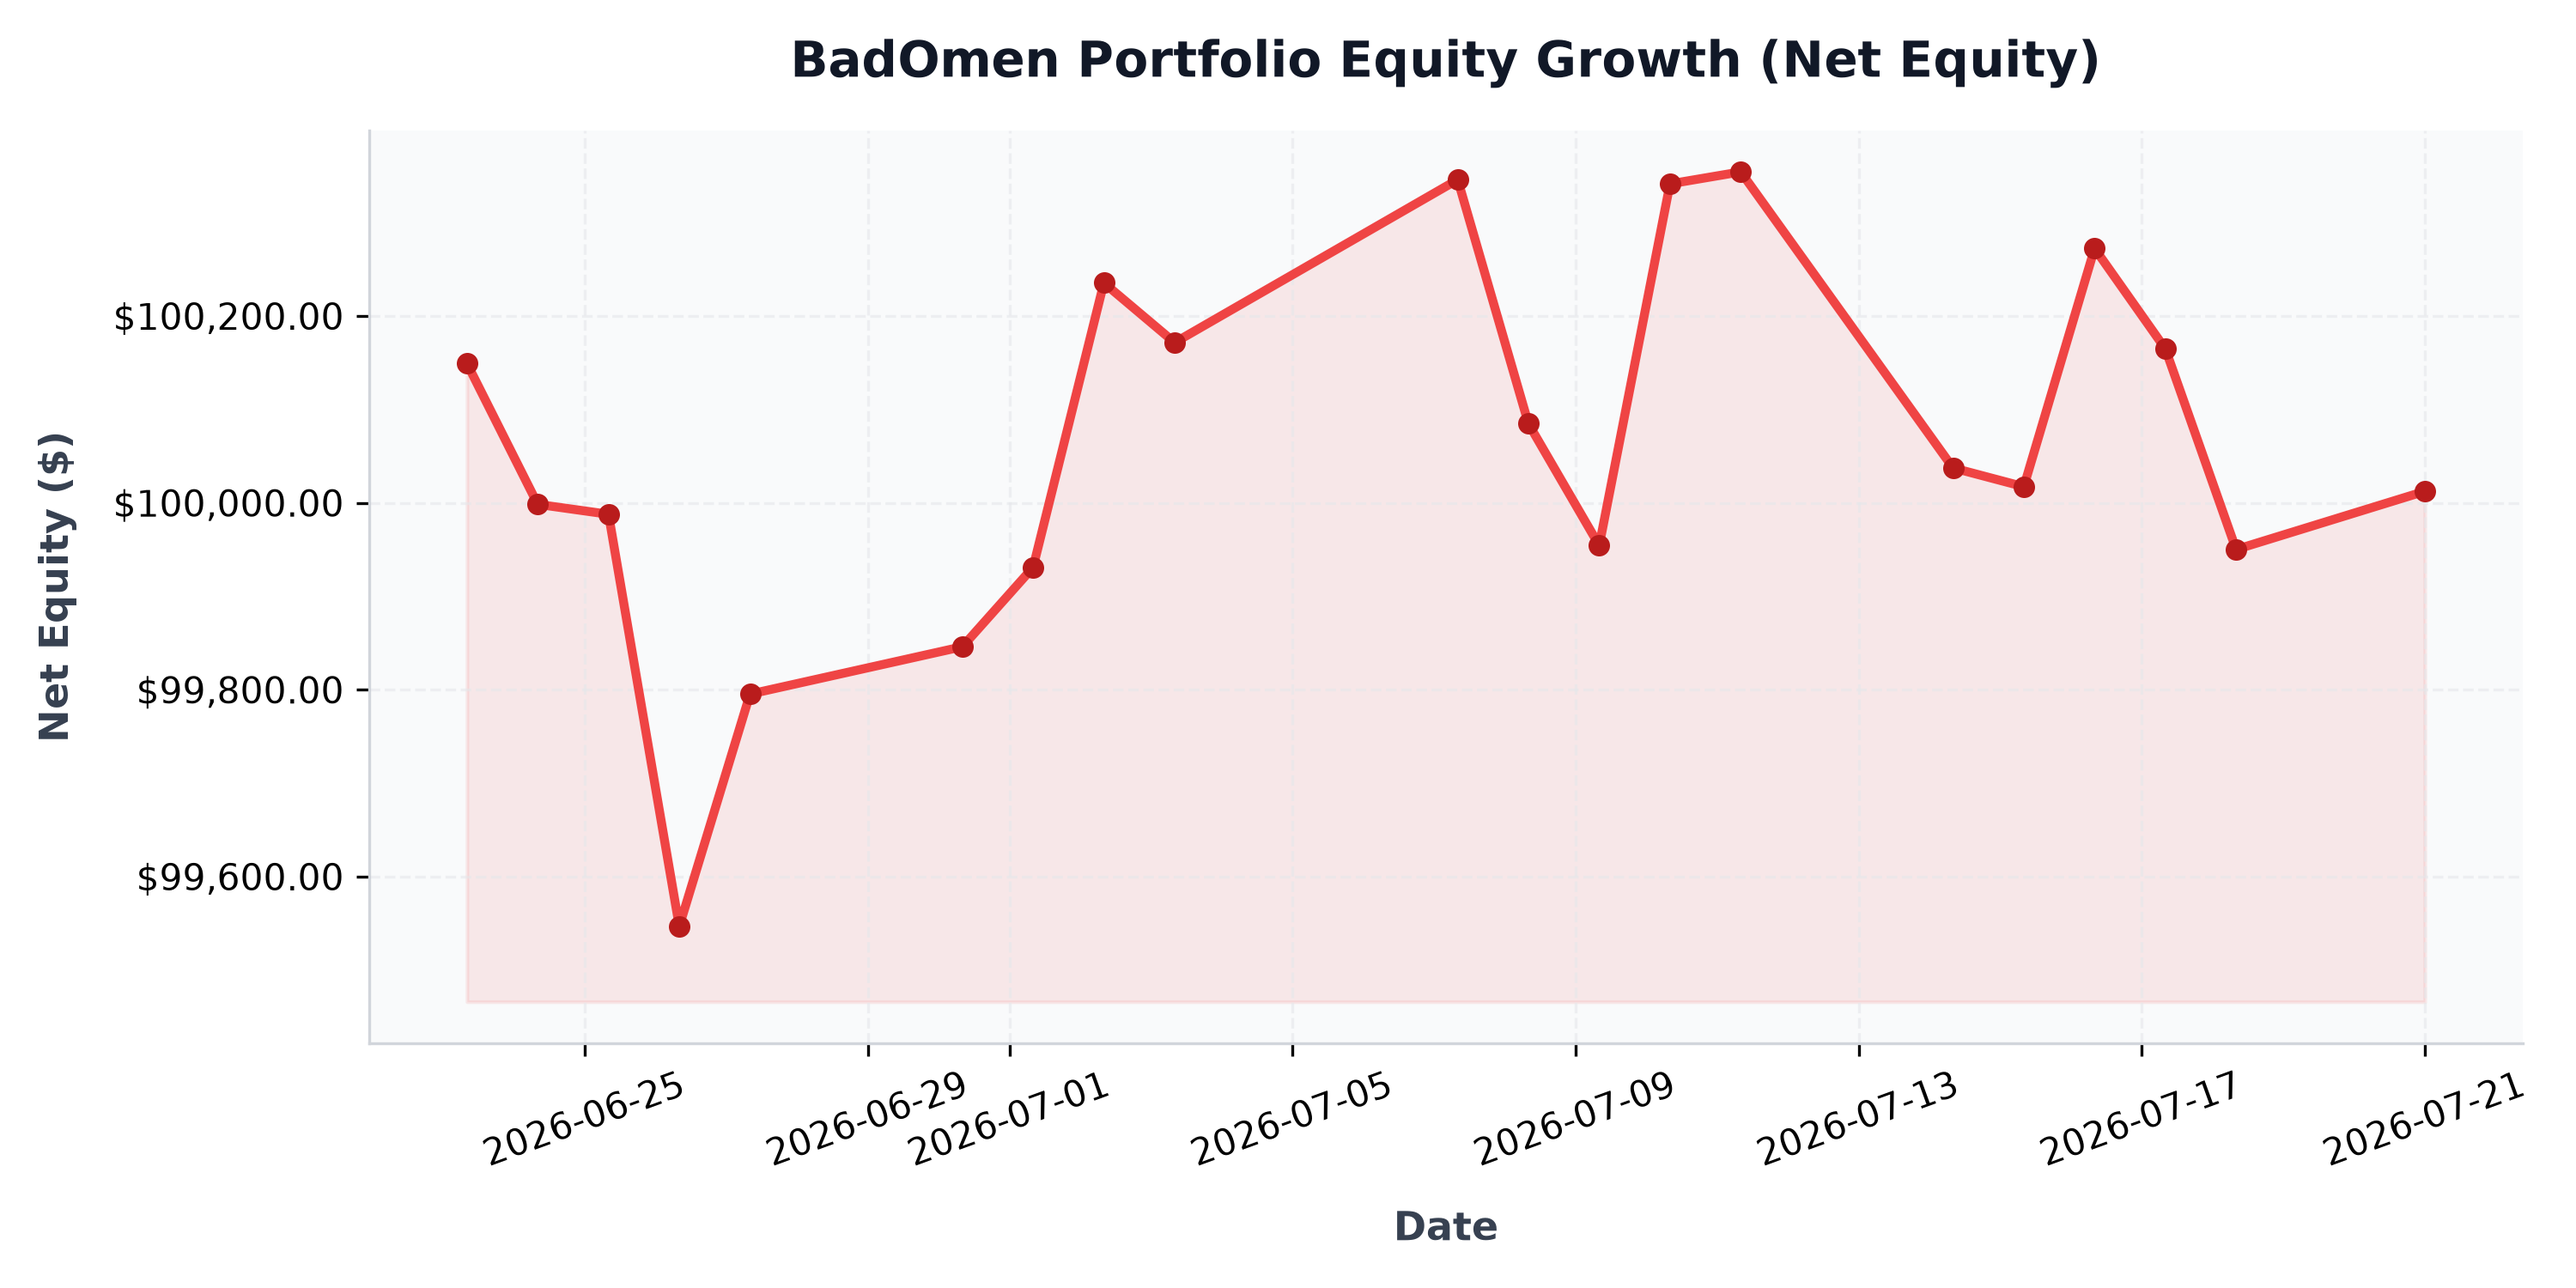
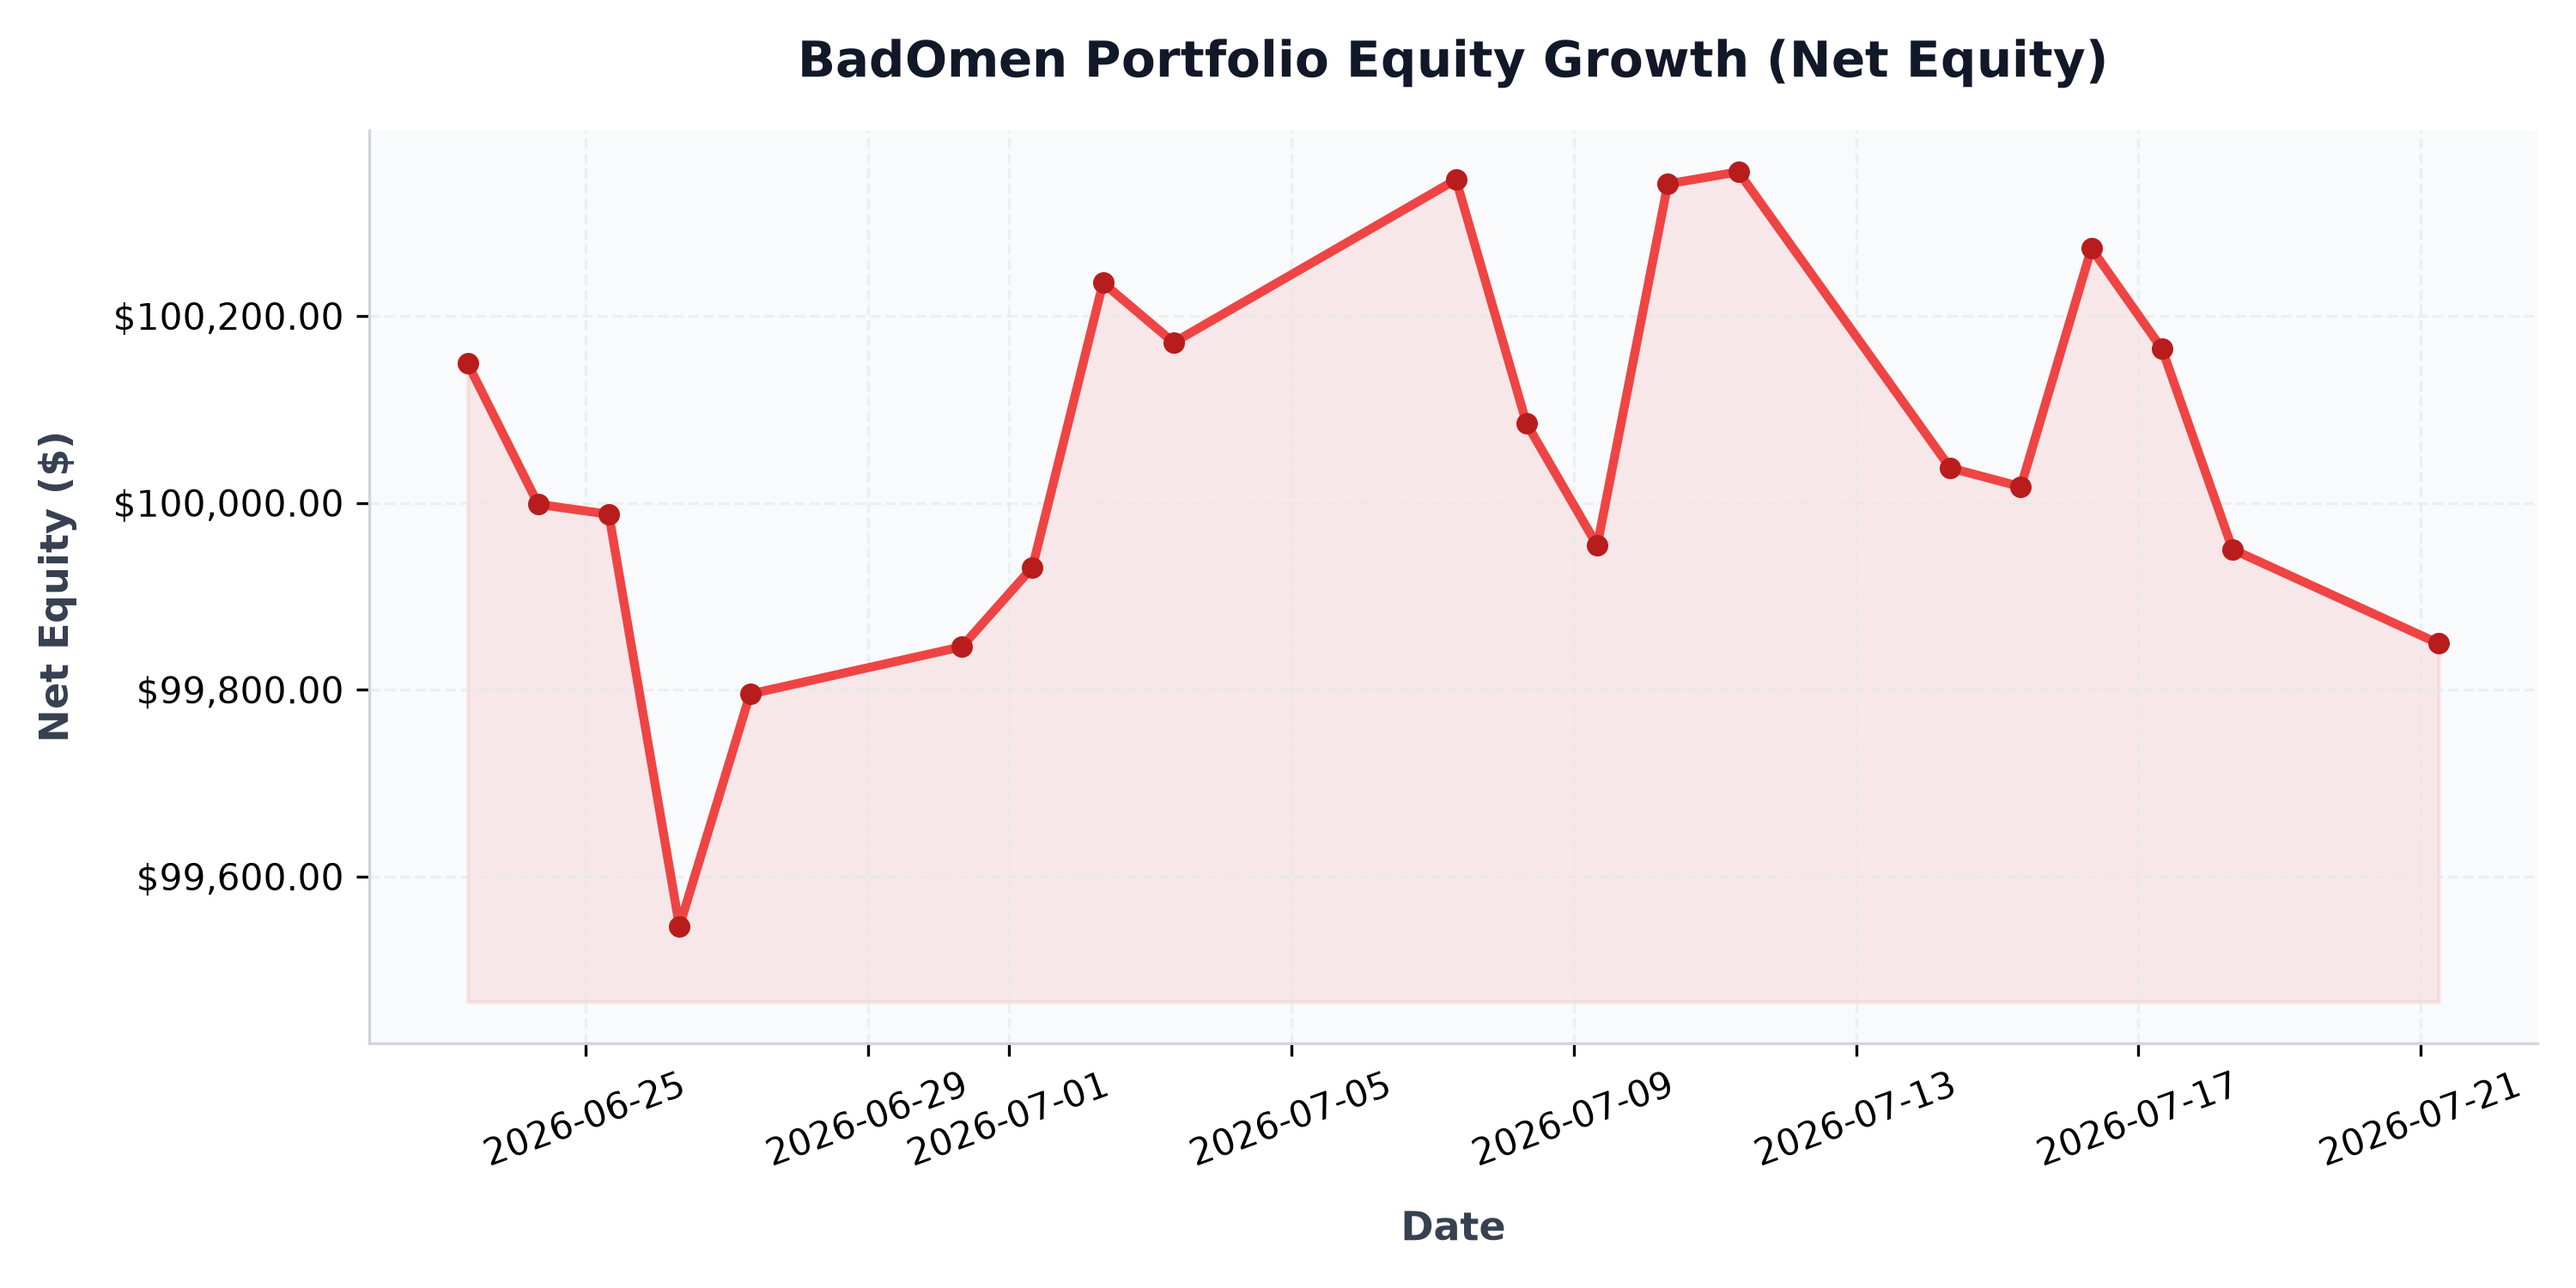
auto: daily portfolio status update - 2026-07-21 06:05:13

diff --git a/src/content/posts/portfolio-performance.md b/src/content/posts/portfolio-performance.md
@@ -1,6 +1,6 @@
 ---
 title: "BadOmen Algorithmic Portfolio Performance & PnL Report"
-pubDatetime: 2026-07-21T00:00:13.517856+08:00
+pubDatetime: 2026-07-21T06:05:13.416966+08:00
 description: "Live performance metrics, active holdings, and historic equity curve for the BadOmen automated paper trading portfolio."
 featured: true
 draft: false
@@ -16,11 +16,11 @@ Welcome to the live performance dashboard for **BadOmen**, our automated algorit
 ## 📊 Portfolio Summary
 | Performance Metric | Value | description |
 | :--- | :--- | :--- |
-| **Net Portfolio Equity** | **$100,012.42** | Total current liquidation value of cash and stock holdings |
-| **Total Unrealized P&L** | 🟢 **+$24.00** (+0.02%) | Total return of current open holdings |
+| **Net Portfolio Equity** | **$99,849.44** | Total current liquidation value of cash and stock holdings |
+| **Total Unrealized P&L** | 🔴 **$-139.41** (-0.14%) | Total return of current open holdings |
 | **Cash Balance** | $74,884.30 | Idle reserve currency available for limit orders |
-| **Buying Power** | $365,118.80 | Margin-backed buying power for entry allocations |
-| **Report Updated** | `2026-07-21 00:00:13 (SGT)` | Timestamp of daily execution and sync run |
+| **Buying Power** | $364,662.47 | Margin-backed buying power for entry allocations |
+| **Report Updated** | `2026-07-21 06:05:13 (SGT)` | Timestamp of daily execution and sync run |
 
 ## 📈 Net Equity Growth Curve
 The chart below illustrates the historical performance of the account starting from our baseline capital funding of $100,000.00.
@@ -35,29 +35,29 @@ The chart below illustrates the exposure of our currently held active positions 
 ## 💼 Current Position Holdings
 | Ticker | Industry | Shares Owned | Average Entry Cost | Current Price | Unrealized P&L | Return (%) |
 | :--- | :--- | :--- | :--- | :--- | :--- | :--- |
-| **AN** | Auto & Truck Dealerships | 5 | $188.51 | $201.08 | 🟢 +$62.86 | +6.67% |
-| **AVGO** | Semiconductors | 1 | $385.71 | $382.15 | 🔴 $-3.56 | -0.92% |
-| **CELH** | Beverages - Non-Alcoholic | 33 | $29.71 | $28.48 | 🔴 $-40.69 | -4.15% |
-| **DUOL** | Software - Application | 7 | $134.93 | $136.26 | 🟢 +$9.32 | +0.99% |
-| **FIS** | Information Technology Services | 23 | $41.79 | $42.37 | 🟢 +$13.34 | +1.39% |
-| **GDDY** | Software - Infrastructure | 12 | $76.21 | $95.24 | 🟢 +$228.36 | +24.97% |
-| **GDS** | Information Technology Services | 30 | $32.77 | $32.63 | 🔴 $-4.20 | -0.43% |
-| **GGAL** | Banks - Regional | 17 | $56.04 | $50.05 | 🔴 $-101.74 | -10.68% |
-| **GPI** | Auto & Truck Dealerships | 3 | $316.15 | $314.37 | 🔴 $-5.34 | -0.56% |
-| **ITRI** | Scientific & Technical Instruments | 12 | $81.80 | $83.79 | 🟢 +$23.85 | +2.43% |
-| **KBR** | Engineering & Construction | 27 | $36.23 | $35.29 | 🔴 $-25.46 | -2.60% |
-| **META** | Internet Content & Information | 1 | $568.17 | $647.38 | 🟢 +$79.21 | +13.94% |
-| **NESR** | Oil & Gas Equipment & Services | 34 | $28.74 | $27.57 | 🔴 $-39.76 | -4.07% |
-| **NU** | Banks - Regional | 85 | $11.60 | $14.09 | 🟢 +$211.35 | +21.44% |
-| **ON** | Semiconductors | 10 | $90.45 | $88.52 | 🔴 $-19.35 | -2.14% |
-| **ORCL** | Software - Infrastructure | 5 | $181.95 | $121.90 | 🔴 $-300.25 | -33.00% |
-| **PATH** | Software - Infrastructure | 187 | $10.42 | $12.36 | 🟢 +$362.70 | +18.61% |
-| **PYPL** | Credit Services | 17 | $56.05 | $56.88 | 🟢 +$14.11 | +1.48% |
-| **QCOM** | Semiconductors | 15 | $193.68 | $173.57 | 🔴 $-301.65 | -10.38% |
-| **SMCI** | Computer Hardware | 33 | $29.25 | $24.25 | 🔴 $-165.16 | -17.11% |
-| **T** | Telecom Services | 47 | $20.85 | $21.84 | 🟢 +$46.77 | +4.77% |
-| **WEN** | Restaurants | 257 | $8.02 | $7.76 | 🔴 $-66.49 | -3.23% |
-| **ZG** | Internet Content & Information | 31 | $31.35 | $32.83 | 🟢 +$45.78 | +4.71% |
+| **AN** | Auto & Truck Dealerships | 5 | $188.51 | $197.91 | 🟢 +$47.01 | +4.99% |
+| **AVGO** | Semiconductors | 1 | $385.71 | $377.48 | 🔴 $-8.23 | -2.13% |
+| **CELH** | Beverages - Non-Alcoholic | 33 | $29.71 | $29.34 | 🔴 $-12.30 | -1.25% |
+| **DUOL** | Software - Application | 7 | $134.93 | $133.88 | 🔴 $-7.34 | -0.78% |
+| **FIS** | Information Technology Services | 23 | $41.79 | $42.27 | 🟢 +$11.04 | +1.15% |
+| **GDDY** | Software - Infrastructure | 12 | $76.21 | $94.84 | 🟢 +$223.56 | +24.45% |
+| **GDS** | Information Technology Services | 30 | $32.77 | $33.05 | 🟢 +$8.40 | +0.85% |
+| **GGAL** | Banks - Regional | 17 | $56.04 | $49.95 | 🔴 $-103.52 | -10.87% |
+| **GPI** | Auto & Truck Dealerships | 3 | $316.15 | $305.95 | 🔴 $-30.60 | -3.23% |
+| **ITRI** | Scientific & Technical Instruments | 12 | $81.80 | $84.37 | 🟢 +$30.84 | +3.14% |
+| **KBR** | Engineering & Construction | 27 | $36.23 | $34.57 | 🔴 $-44.90 | -4.59% |
+| **META** | Internet Content & Information | 1 | $568.17 | $644.37 | 🟢 +$76.20 | +13.41% |
+| **NESR** | Oil & Gas Equipment & Services | 34 | $28.74 | $27.45 | 🔴 $-43.89 | -4.49% |
+| **NU** | Banks - Regional | 85 | $11.60 | $14.00 | 🟢 +$204.12 | +20.70% |
+| **ON** | Semiconductors | 10 | $90.45 | $86.37 | 🔴 $-40.85 | -4.52% |
+| **ORCL** | Software - Infrastructure | 5 | $181.95 | $121.51 | 🔴 $-302.20 | -33.22% |
+| **PATH** | Software - Infrastructure | 187 | $10.42 | $12.17 | 🟢 +$326.74 | +16.77% |
+| **PYPL** | Credit Services | 17 | $56.05 | $56.57 | 🟢 +$8.84 | +0.93% |
+| **QCOM** | Semiconductors | 15 | $193.68 | $170.32 | 🔴 $-350.47 | -12.06% |
+| **SMCI** | Computer Hardware | 33 | $29.25 | $23.92 | 🔴 $-175.76 | -18.21% |
+| **T** | Telecom Services | 47 | $20.85 | $21.96 | 🟢 +$52.17 | +5.32% |
+| **WEN** | Restaurants | 257 | $8.02 | $7.81 | 🔴 $-54.36 | -2.64% |
+| **ZG** | Internet Content & Information | 31 | $31.35 | $32.84 | 🟢 +$46.09 | +4.74% |
 
 ## 🔴 Recent Realized Trades
 | Ticker | Shares Sold | Entry Price | Exit Price | Strategy Trigger | Realized Return | Exit Date |
